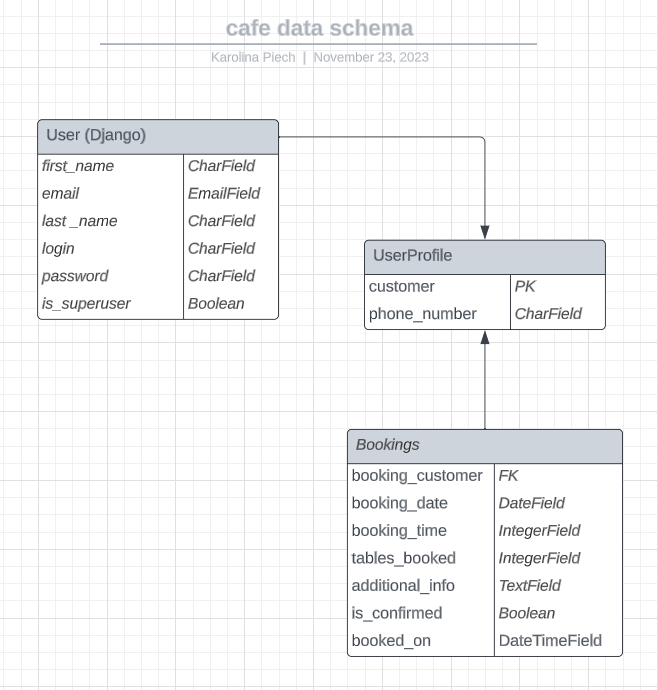
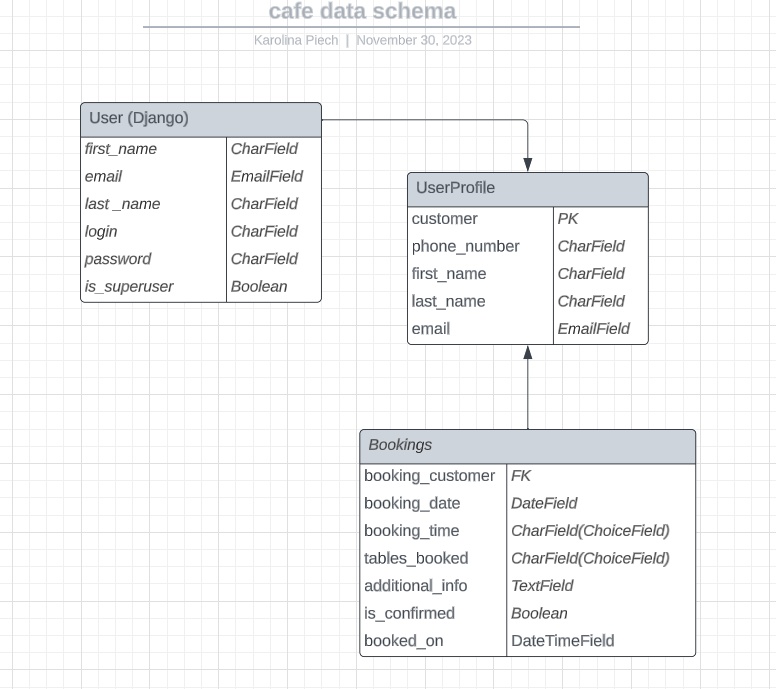
Update database structure

diff --git a/README.md b/README.md
@@ -49,7 +49,10 @@
 | Key | Name | Field |
 |--|--|--|
 | PrimaryKey | customer | OnetoOneField  |
+| x | first_name | Charfield |
+| x | last_name | Charfield |
 | x | phone_number | Charfield |
+| x | email | Emailfield |
 
 ---
 
@@ -59,8 +62,8 @@
 |--|--|--|
 | ForeignKey | booking_customer | ForeignKey  |
 | x | booking_date | DateField |
-| x | booking_time | IntegerField |
-| x | tables_booked | IntegerField |
+| x | booking_time | CharField |
+| x | tables_booked | CharField |
 | x | additional_info  | TextField |
 | x | booked_on | DateTimeField |
 | x | is_confirmed | IntegerField |
